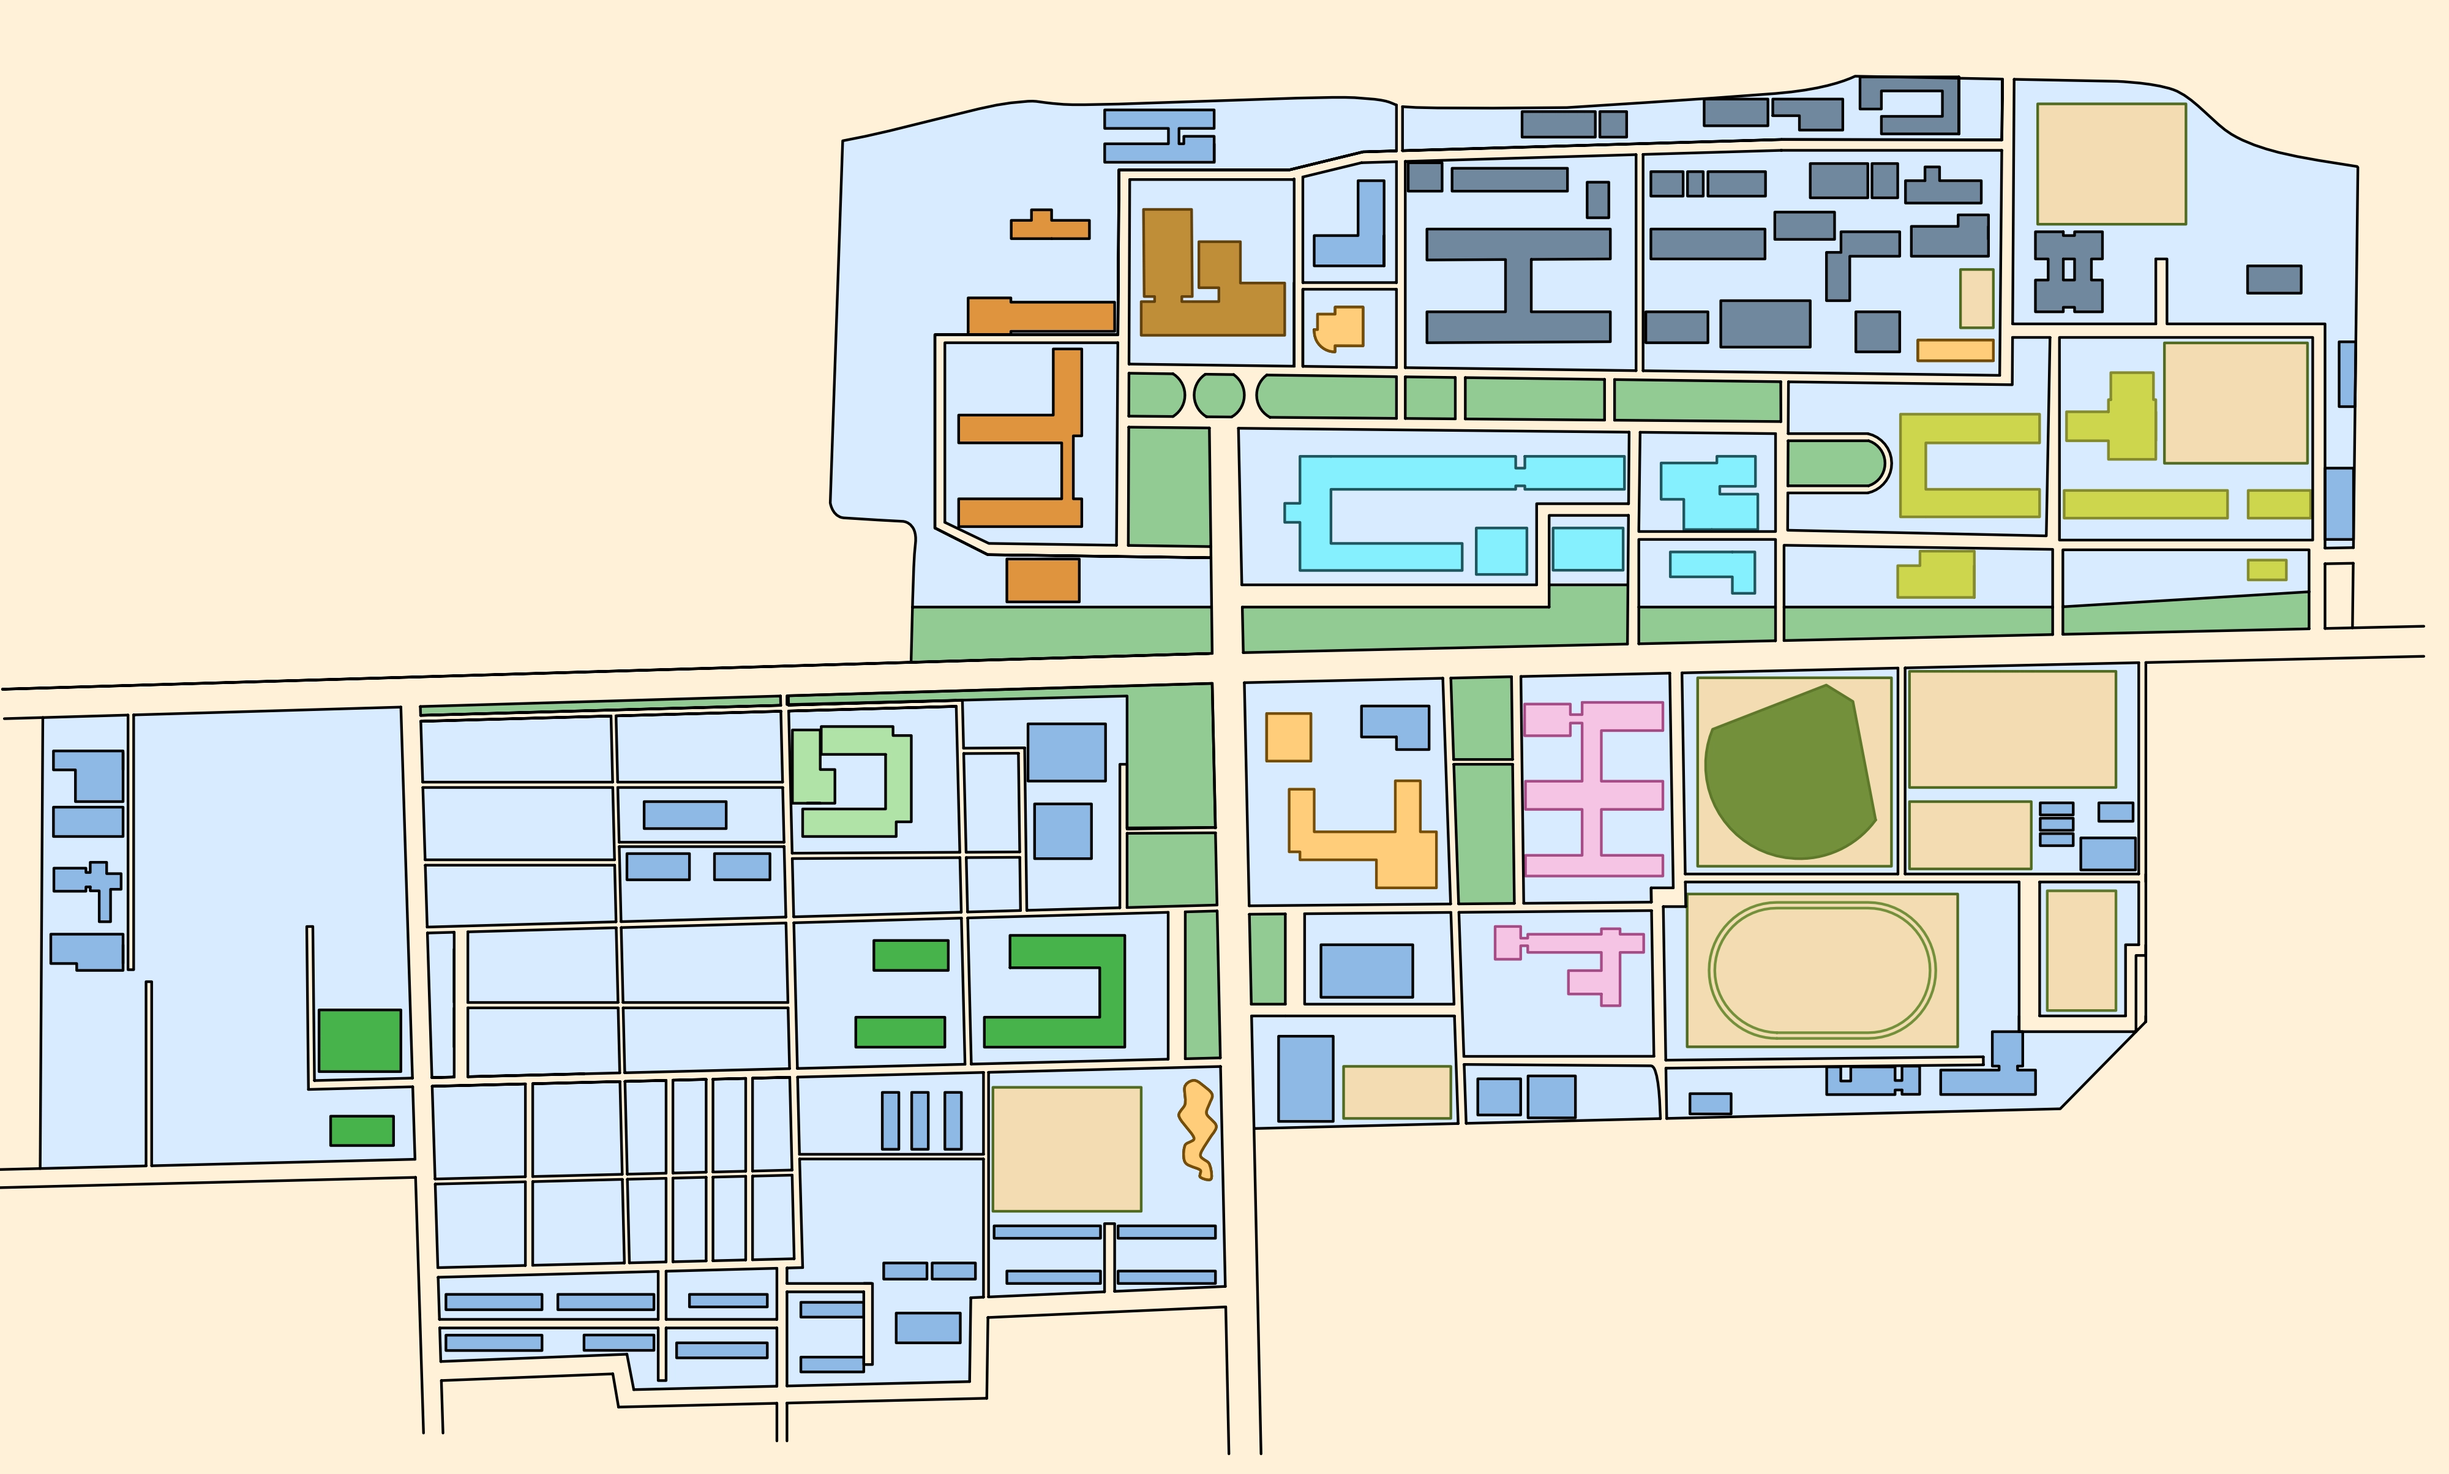
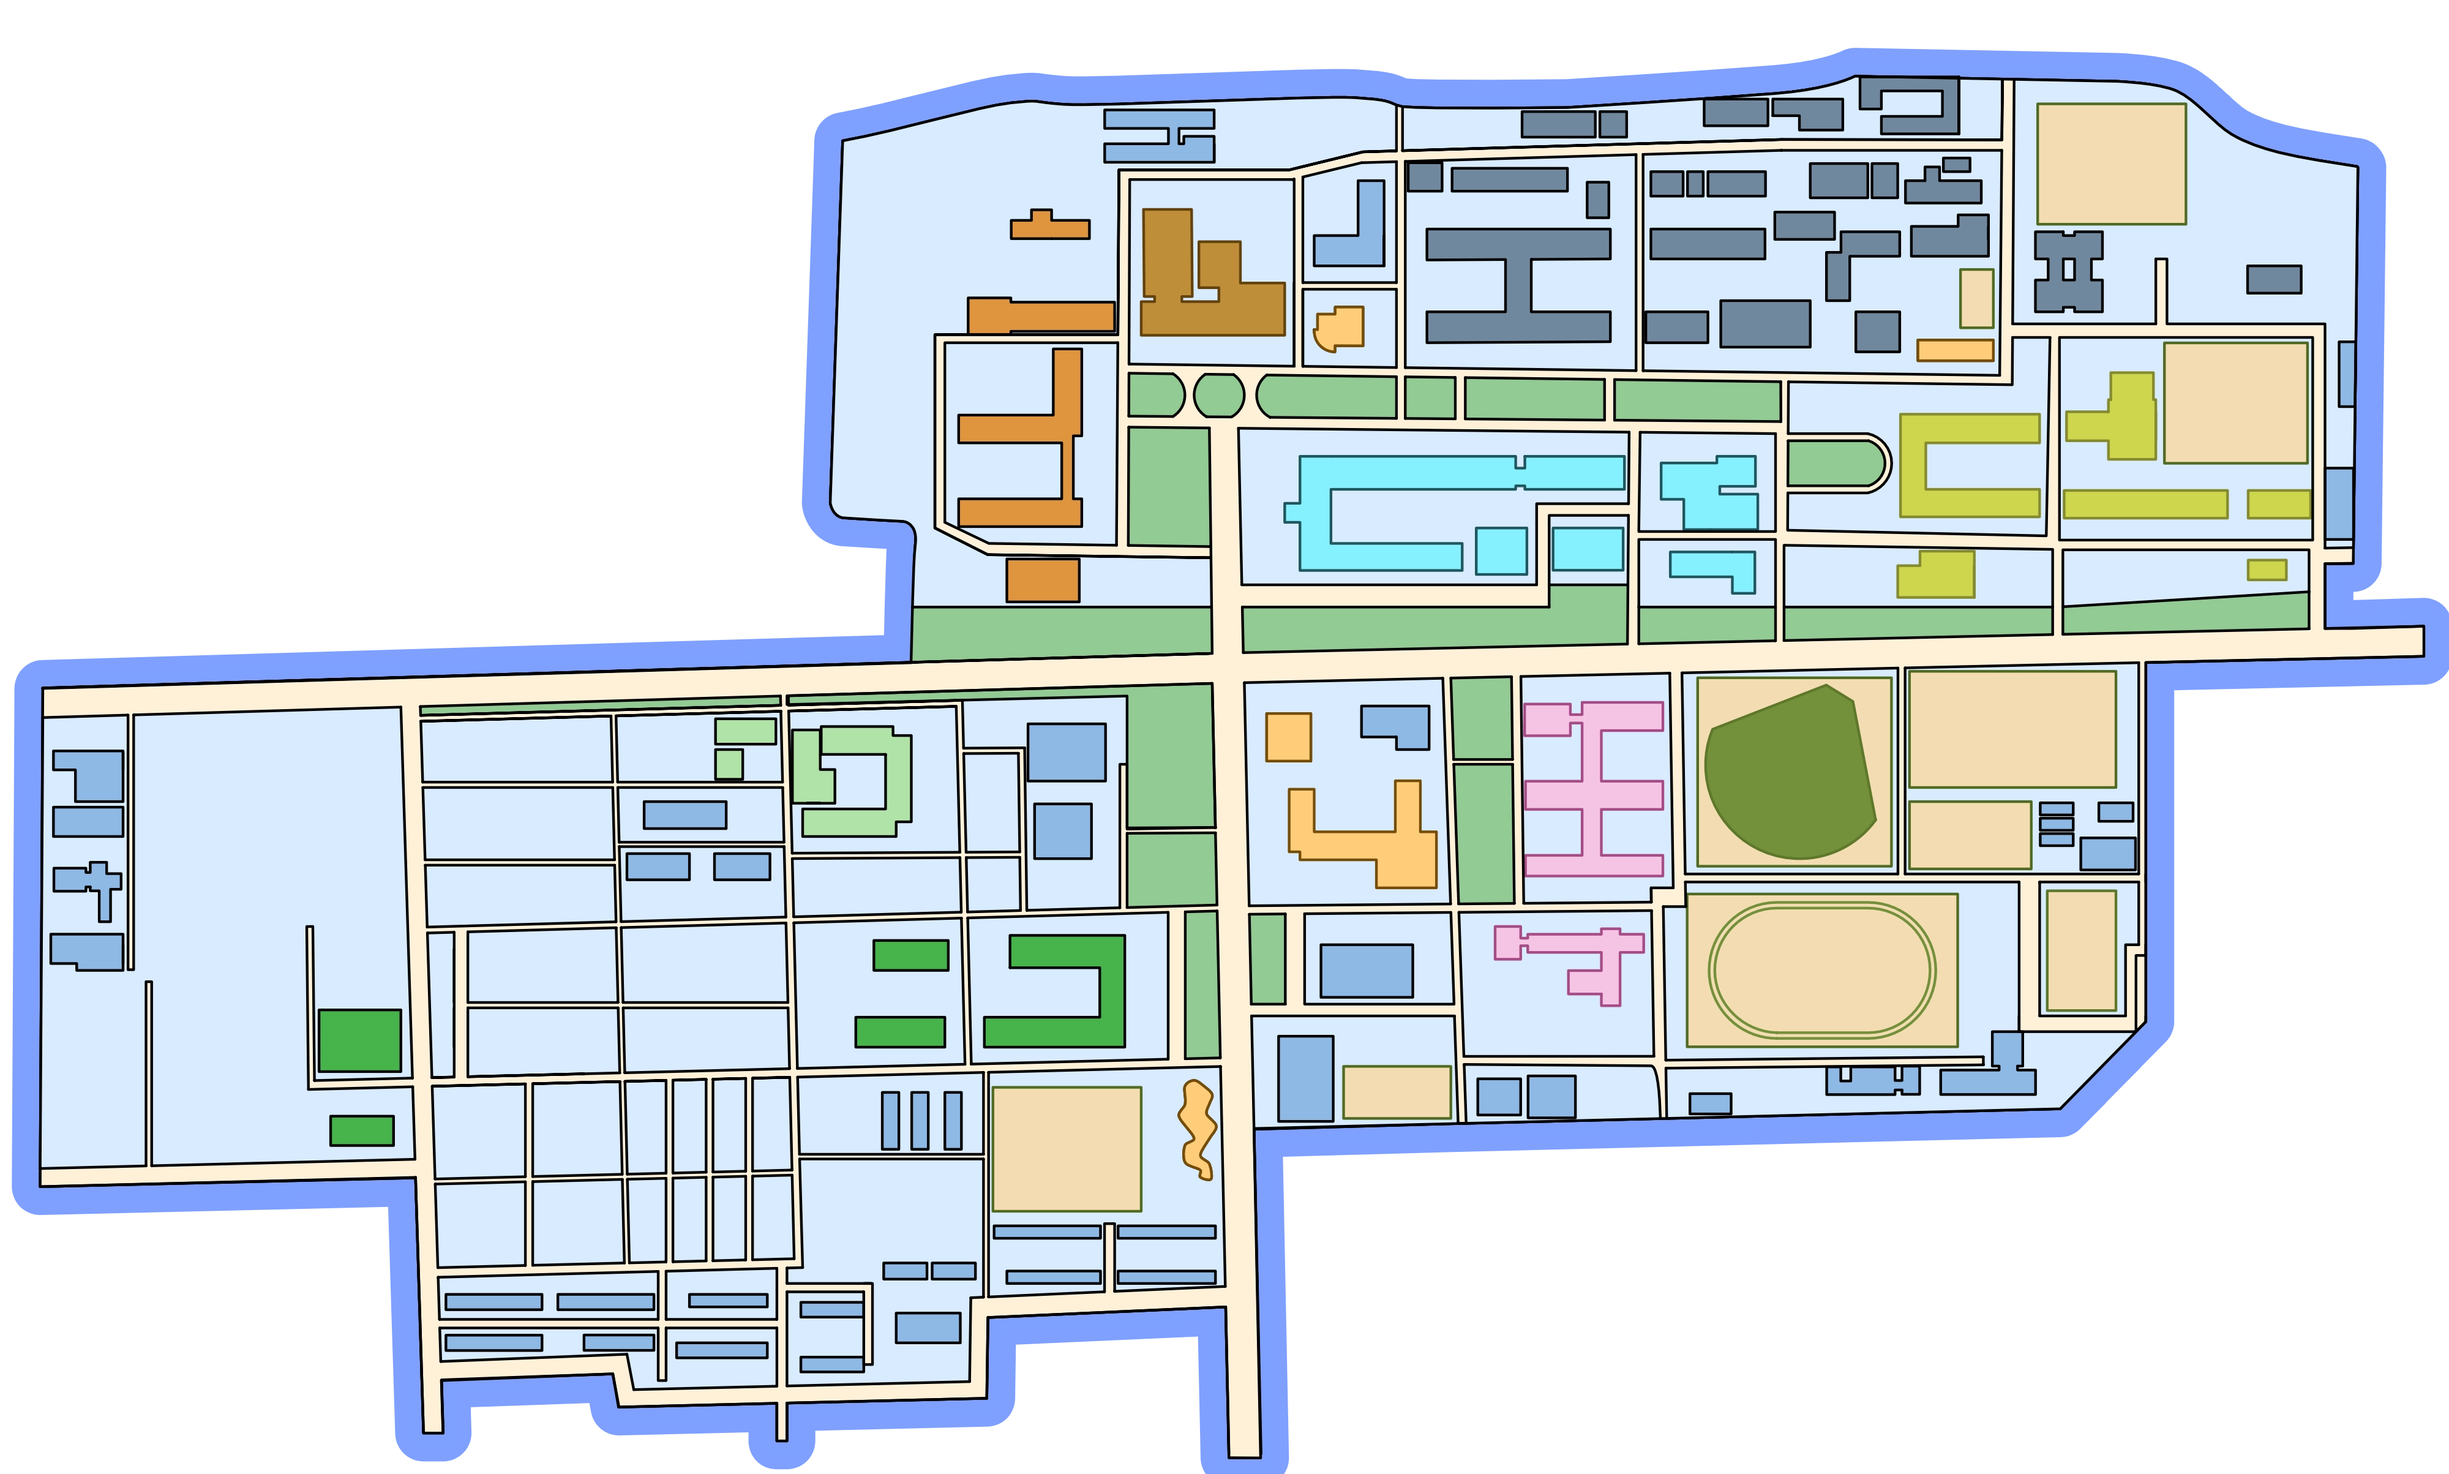
現在地・全体マップ

diff --git a/script.js b/script.js
@@ -1,5 +1,5 @@
 const now = new Date();
-import { buildings } from './buildings.js?v=0.5.0';
+import { buildings } from './buildings.js?v=0.6.0';
 // 地図の初期化
 var map = L.map('map', {
   minZoom: 16, 
@@ -7,21 +7,27 @@ var map = L.map('map', {
 }).setView([34.68717, 133.91987], 17);
 
 // OpenStreetMapタイルの読み込み
-L.tileLayer('https://{s}.tile.openstreetmap.org/{z}/{x}/{y}.png', {
+/*L.tileLayer('https://{s}.tile.openstreetmap.org/{z}/{x}/{y}.png', {
   attribution: '© OpenStreetMap contributors',
   maxNativeZoom: 19,
   maxZoom: 20
-}).addTo(map);
+}).addTo(map);*/
 
 const bounds = [
     [34.68340, 133.91178], // 左下（SouthWest）の緯度・経度
     [34.69119, 133.92754]  // 右上（NorthEast）の緯度・経度
 ];
+const maxBounds = [
+  [34.68166, 133.90929], // 左下（少し外側）
+  [34.69242, 133.92963]  // 右上（少し外側）
+];
 
-// 2. 作成した画像をマップの上に重ねる（ImageOverlay）
 const overlay = L.imageOverlay('images/campus_map.webp', bounds,
   {opacity:1.0}
 ).addTo(map);
+
+map.setMaxBounds(maxBounds);
+map.options.maxBoundsViscosity = 1.0;
 
 // アイコン設定
 const ICON_SIZES = {
@@ -247,11 +253,58 @@ clearBtn.addEventListener('click', () => {
   clearBtn.style.display = 'none';
   searchInput.focus(); // すぐ再入力できるようにフォーカスをあてる
 });
-
 // イベントリスナーの設定
 document.getElementById('search-btn').addEventListener('click', searchBuilding);
 document.getElementById('search-input').addEventListener('keypress', (e) => {
   if (e.key === 'Enter') searchBuilding();
+});
+// 現在地を表示するためのマーカー（青円など）を保持する変数
+let userLocationMarker = null;
+let userLocationAccuracy = null;
+
+// GPSボタンを取得してクリックイベントを設定
+const gpsBtn = document.getElementById('gps-btn');
+
+gpsBtn.addEventListener('click', () => {
+  // ブラウザのGPS機能を起動（高精度モードON）
+  map.locate({
+    setView: true,     // 発見したらそこへ自動でカメラ移動
+    maxZoom: 18,       // 移動時のズームレベル
+    enableHighAccuracy: true // GPSの高精度モードを有効化
+  });
+});
+
+// GPSで位置が取得できたときの処理
+map.on('locationfound', (e) => {
+  const radius = e.accuracy / 2; // 精度誤差の範囲（メートル）
+
+  // すでに現在地マーカーが出ている場合は一度消す
+  if (userLocationMarker) {
+    map.removeLayer(userLocationMarker);
+    map.removeLayer(userLocationAccuracy);
+  }
+
+  // 1. 誤差範囲を示す円を描画（うっすら青い円）
+  userLocationAccuracy = L.circle(e.latlng, radius, {
+    color: '#136AEC',
+    fillColor: '#136AEC',
+    fillOpacity: 0.15,
+    stroke: false
+  }).addTo(map);
+
+  // 2. 現在地を示す青いドットマーカーを描画
+  userLocationMarker = L.circleMarker(e.latlng, {
+    radius: 8,
+    color: '#ffffff',     // 枠線は白
+    weight: 3,
+    fillColor: '#007aff', // 中身はiOS風の青
+    fillOpacity: 1.0
+  }).addTo(map).bindPopup("現在地");
+});
+
+// GPS取得に失敗した場合のエラーハンドリング
+map.on('locationerror', (e) => {
+  alert("位置情報の取得に失敗しました。スマホの位置情報（GPS）設定やブラウザの権限を確認してください。");
 });
 
 // 座標取得機能（開発用）

diff --git a/style.css b/style.css
@@ -7,7 +7,6 @@ html, body {
   overflow: hidden; /* 画面全体のスクロールを禁止 */
 }
 
-
 #top-bar {
   display: flex;
   justify-content: space-between;
@@ -115,6 +114,21 @@ html, body {
   opacity: 0.4; 
 }
 
+.bottom-bar {
+  position: fixed;
+  bottom: 16px;
+  left: 50%;
+  transform: translateX(-50%);
+  z-index: 1000; /* マップやマーカーより手前に表示 */
+  display: flex;
+  gap: 8px;
+  background: rgba(255, 255, 255, 0.9);
+  backdrop-filter: blur(8px); /* 背景をうっすらぼかすとおしゃれ */
+  padding: 8px 12px;
+  border-radius: 30px;
+  box-shadow: 0 4px 15px rgba(0, 0, 0, 0.15);
+}
+
 /* 3. 地図エリアの調整 */
 #map {
   position: absolute;
@@ -132,4 +146,15 @@ html, body {
 /* Leafletの著作権表示（Attribution）がバーに被らないように微調整 */
 .leaflet-bottom.leaflet-right {
   bottom: 10px;
+}
+
+#map, 
+.leaflet-container, 
+.leaflet-container .leaflet-tile-container {
+  background-color: #e3e9ff !important; /* ★指定したいベタ塗り色 */
+}
+
+/* 2. 画像重ね合わせレイヤーの背景を完全に透明にする */
+.leaflet-image-layer {
+  background: transparent !important;
 }

diff --git a/index.html b/index.html
@@ -6,9 +6,9 @@
   <meta http-equiv="Cache-Control" content="no-cache, no-store, must-revalidate">
   <meta http-equiv="Pragma" content="no-cache">
   <meta http-equiv="Expires" content="0">
-  <title>岡大キャンパスマップ（試作）</title>
+  <title>岡大キャンパスマップ</title>
   <link rel="stylesheet" href="https://unpkg.com/leaflet@1.9.4/dist/leaflet.css" />
-  <link rel="stylesheet" href="style.css?v=0.5.0">
+  <link rel="stylesheet" href="style.css?v=0.6.0">
   <style>
     /* 画面全体にマップを広げる設定 */
     body { 
@@ -37,6 +37,11 @@
     <button id="reset-btn" aria-label="初期表示に戻す">
       <img src="icons/update.png" alt="更新">
     </button>
+  </header>
+  <header>
+    <div class="bottom-bar">
+      <button id="gps-btn" class="bottom-btn">現在地</button>
+    </div>
   </header> 
   
   <!-- 地図を表示するエリア -->
@@ -44,6 +49,6 @@
 
   <!-- LeafletのJavaScript本体 -->
   <script src="https://unpkg.com/leaflet@1.9.4/dist/leaflet.js"></script>
-  <script type="module" src="script.js?v=0.5.0"></script>
+  <script type="module" src="script.js?v=0.6.0"></script>
 </body>
 </html>

diff --git a/buildings.js b/buildings.js
@@ -396,7 +396,7 @@ export const buildings = [
     layerGroup: "eng",
     type: "floor_text", 
     image: "images/engBound_7.jpg",
-    coordinate:[34.69011,133.92103],
+    coordinate:[34.69026, 133.92096],
   },
   {
     id: "engBound_8",
